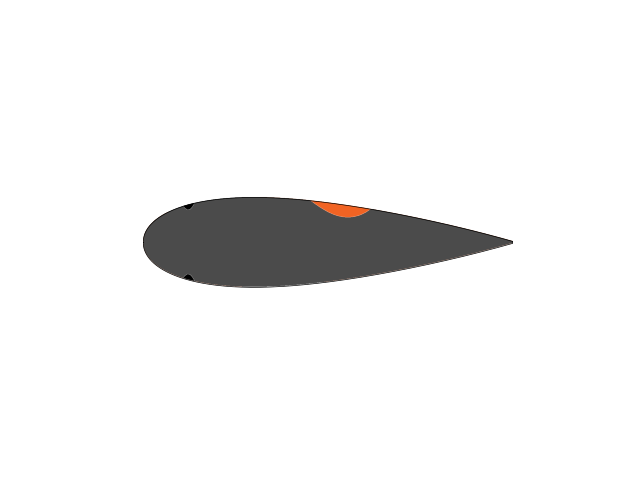
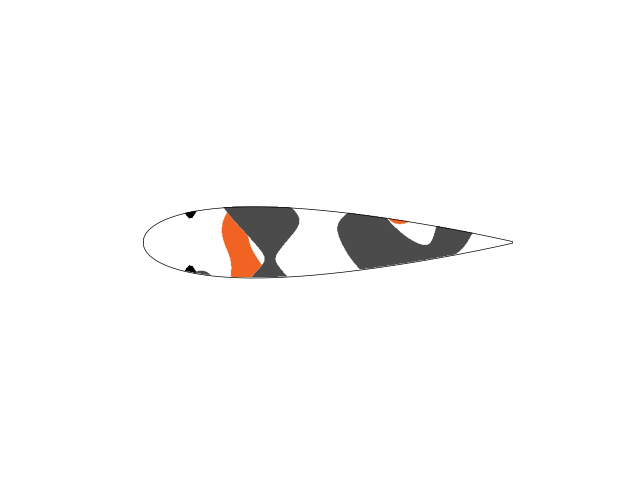
added basic swimming and code clean up

Changed region(s): [[0.2188, 0.4062, 0.8125, 0.625]]

diff --git a/main.py b/main.py
@@ -1,13 +1,6 @@
 import tkinter as tk
-from PIL import ImageTk
-from PIL import Image
-from perlin_noise import PerlinNoise
 from airfoil import *
-import math
-import pandas as pd
-import random
 import numpy as np
-import matplotlib.pyplot as plt
 import time
 from Koi import Koi
 from tkKoi import tkKoi
@@ -22,8 +15,17 @@ eyeblack = np.array((0, 0, 0, 255))
 
 def main():
     fish1 = Koi()
-    # color_layers = [orange1, black1]
-    # fish2 = Koi("Fae", color_layers)
+
+    color_layers2 = [orange1, black1]
+    fish2 = Koi("Fae", color_layers2)
+    
+    color_layers3=[red1, orange1]
+    fish3 = Koi("Kuri", color_layers3)
+
+    color_layers4=[red1, black1]
+    fish4 = Koi("Leo", color_layers4)
+
+    
 
     window = tk.Tk()
     WIDTH = 500
@@ -32,45 +34,21 @@ def main():
     canvas.pack()
 
     tk_fish1 = tkKoi(window, canvas, 250, 250, fish1.filename)
+    tk_fish2 = tkKoi(window, canvas, 199, 70, fish2.filename)
+    tk_fish3 = tkKoi(window, canvas, 125, 189, fish3.filename)
+    tk_fish4 = tkKoi(window, canvas, 100, 120, fish4.filename)
+
     
+    while True:
+        tk_fish1.move([1,1])
+        tk_fish2.move([1,1])
+        tk_fish3.move([1,1])
+        tk_fish4.move([1,1])
+
+        window.update()
+        time.sleep(0.01)
+
     window.mainloop()
-
-
-
-class SimpleApp(object):
-    def __init__(self, master, filename, **kwargs):
-        self.master = master
-        self.filename = filename
-        self.canvas = tk.Canvas(master, width=1000, height=1000)
-        self.canvas.pack()
-
-        self.update = self.movement().__next__
-        master.after(100, self.update)
-
-    def movement(self):
-        image = Image.open(self.filename)
-        image = image.resize((256, 256))
-
-        angle = 0
-        x = 250
-        y = 100
-
-        while True:
-            
-            koi_image = ImageTk.PhotoImage(image.rotate(angle))
-            canvas_obj = self.canvas.create_image(x, y, image=koi_image)
-            self.canvas.move(canvas_obj, x, y)
-            self.master.after_idle(self.update)
-
-            yield
-            self.canvas.delete(canvas_obj)
-            angle += 0.5
-            angle %= 360
-            x -= 1.5*math.sin(math.radians(90 + angle))
-            y -= 1.5*math.cos(math.radians(90 + angle))
-            time.sleep(0.005)
-
-
 
 
 if __name__== "__main__":

diff --git a/tkKoi.py b/tkKoi.py
@@ -1,3 +1,4 @@
+import math
 import tkinter as tk
 from PIL import ImageTk, Image
 
@@ -7,8 +8,27 @@ class tkKoi:
         self.master = master
         self.canvas = canvas
         self.temp_image = Image.open(image)
-        self.temp_image = self.temp_image.resize((100, 100))
+        self.temp_image = self.temp_image.resize((150, 150))
 
         self.koi_image = ImageTk.PhotoImage(self.temp_image, master = self.master)
         self.image = self.canvas.create_image(x, y, image=self.koi_image)
+
+        self.velocity = -1.0
+        self.angle = 0.0
+
+
+    def move(self, destination : tuple):
+        self.angle += 1
+        self.angle %= 360
+        x, y = self.canvas.coords(self.image)
+        x -= 2*math.sin(math.radians(90 + self.angle))
+        y -= 2*math.cos(math.radians(90 + self.angle))
+
+
+        self.koi_image = ImageTk.PhotoImage(self.temp_image.rotate(self.angle), master = self.master)
+        self.image = self.canvas.create_image(x, y, image=self.koi_image)
+        
+
+
+        
 

diff --git a/Koi.py b/Koi.py
@@ -15,10 +15,10 @@ white = np.array((255, 255, 255, 255))
 transparent = np.array((255, 255, 255, 0))
 eyeblack = np.array((0, 0, 0, 255))
 
-WIDTH = 1280
-HEIGTH = 1280
-EYE_WIDTH = 60
-EYE_THICKNESS = 20
+WIDTH = 600
+HEIGTH = 600
+EYE_WIDTH = 30
+EYE_THICKNESS = 12
 
 KOI_THICKNESS_MAX = 0.30
 KOI_THICKNESS_MIN = 0.18
